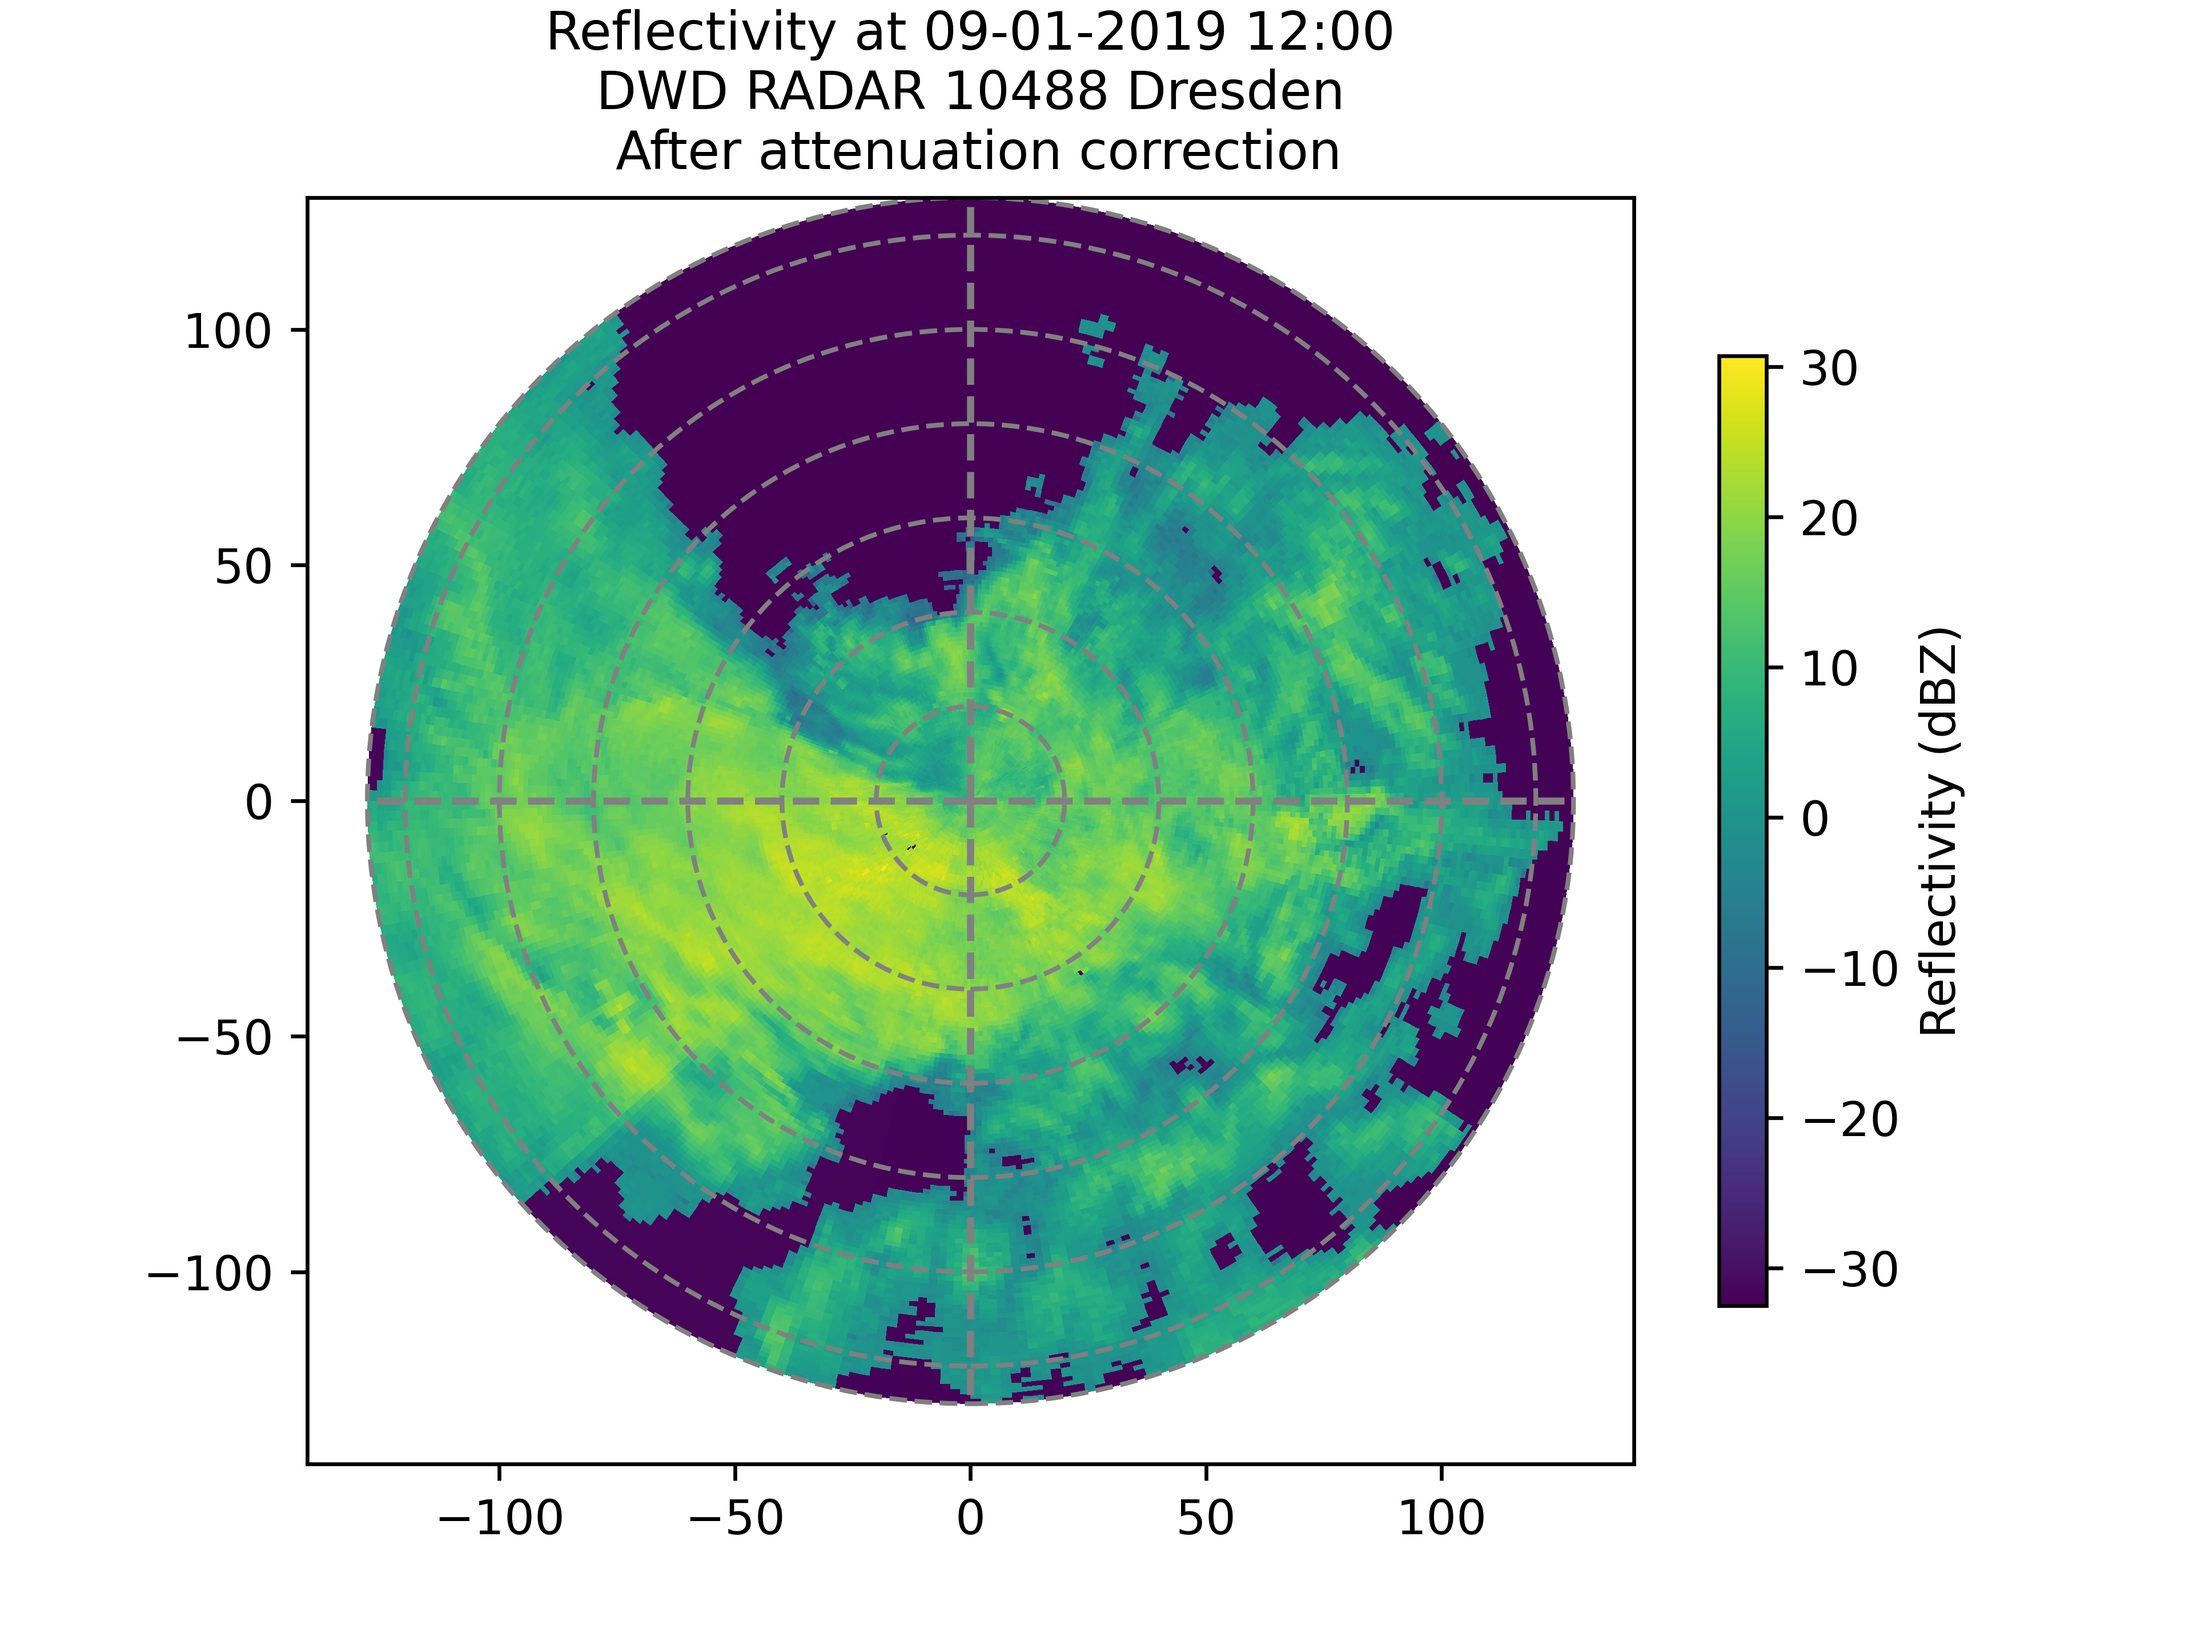
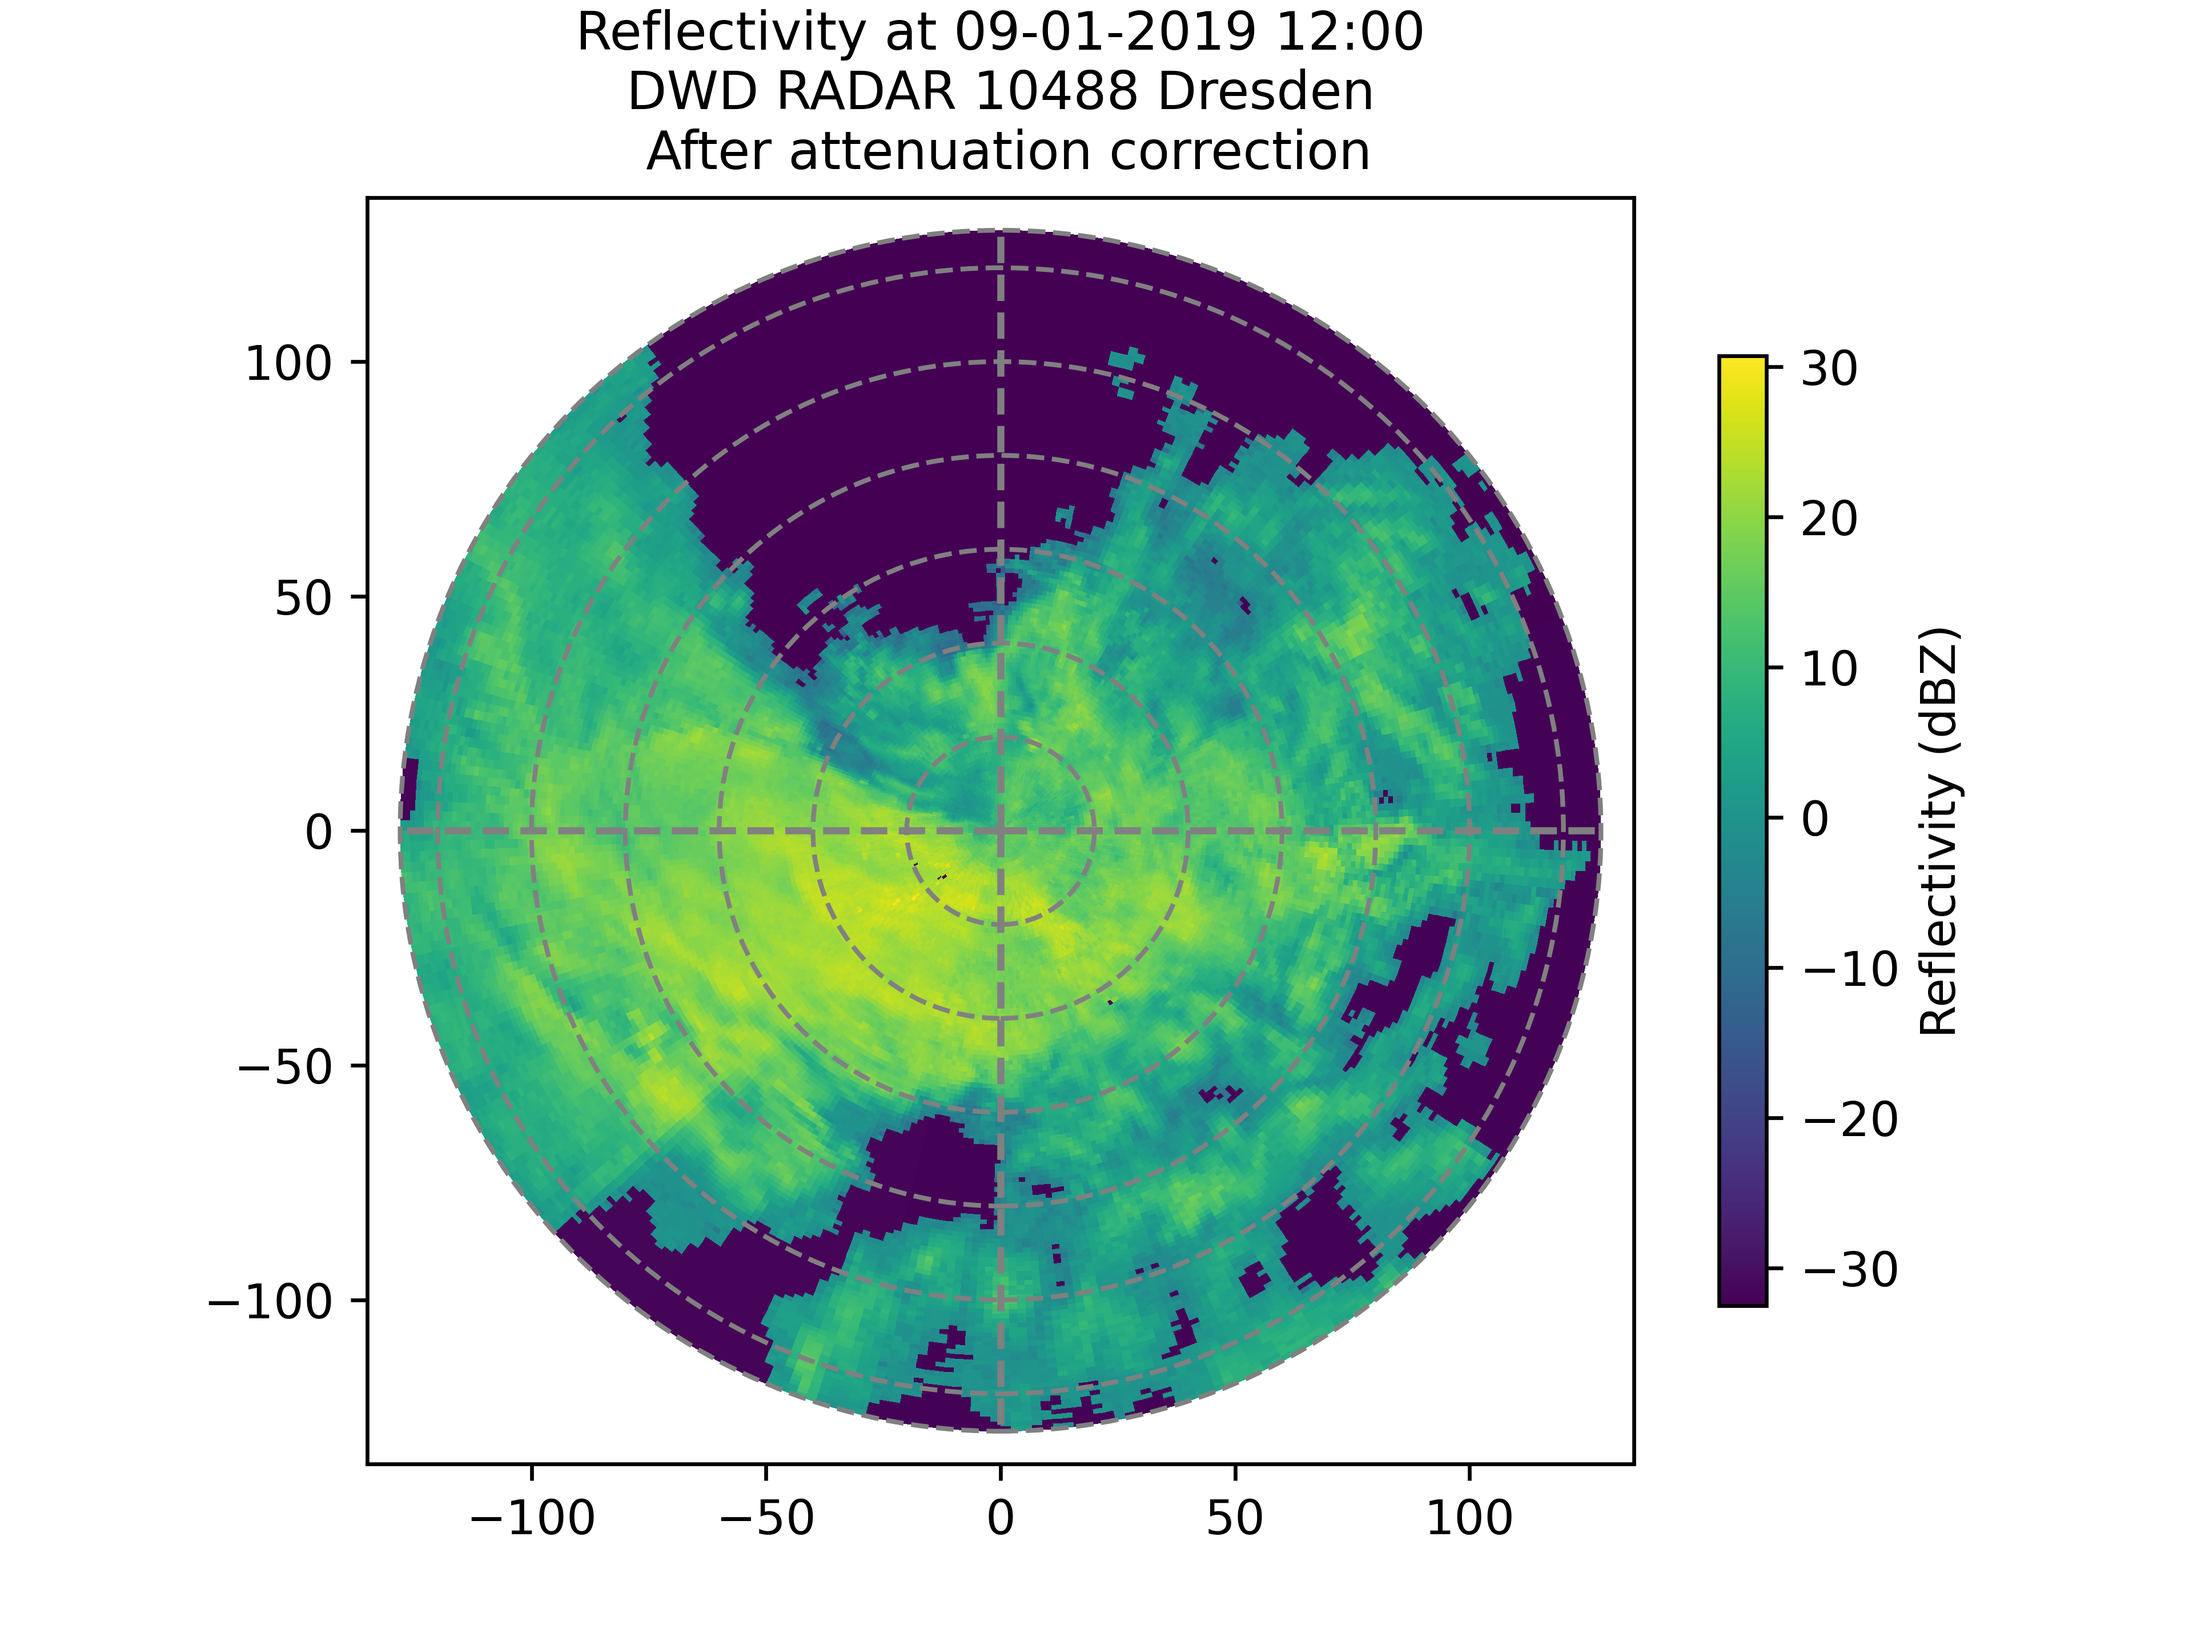
Center radar plots.

diff --git a/code/func.py b/code/func.py
@@ -4,13 +4,16 @@ import wradlib.clutter as clutter
 
 from colorbar import cm
 
+
 def plot_rawdata(data, dt, filename):
     """Plot reflectivity."""
-    pl.figure(figsize=(10, 8))
+    pl.figure(figsize=(10,8))
     ax, im = wrl.vis.plot_ppi(data, cmap="viridis") # proj="cg"
     ax = wrl.vis.plot_ppi_crosshair((0,0,0), ranges=[20,40,60,80,100,120,128])
     cbar = pl.colorbar(im, shrink=0.75)
     cbar.set_label("Reflectivity (dBZ)")
+    pl.xlim([-135, 135])
+    pl.ylim([-135, 135])
     pl.title(f'Reflectivity at {dt.strftime("%d-%m-%Y %H:%M")}\nDWD RADAR 10488 Dresden\nraw data', fontsize=11)
     pl.savefig(f"images/radar_dx _drs_{filename[15:25]}_raw.png", dpi=600)
     return 0
@@ -21,14 +24,19 @@ def clutter_gabella(data, dt, filename):
     pl.figure(figsize=(10,8))
     ax, pm = wrl.vis.plot_ppi(clmap)
     ax = wrl.vis.plot_ppi_crosshair((0,0,0), ranges=[20,40,60,80,100,120,128])
+    pl.xlim([-135, 135])
+    pl.ylim([-135, 135])
     ax.set_title(f'Detected clutter at {dt.strftime("%d-%m-%Y %H:%M")}\nDWD RADAR 10488 Dresden\nAfter clutter correction', fontsize=11)
     pl.savefig(f"images/radar_dx _drs_{filename[15:25]}_cluttermap.png")
+    
     data_no_clutter = wrl.ipol.interpolate_polar(data, clmap)
     pl.figure(figsize=(10,8))
     ax, pm = wrl.vis.plot_ppi(data_no_clutter)
     ax = wrl.vis.plot_ppi_crosshair((0,0,0), ranges=[20,40,60,80,100,120,128])
     cbar = pl.colorbar(pm, shrink=0.75)
     cbar.set_label("Reflectivity (dBZ)")
+    pl.xlim([-135, 135])
+    pl.ylim([-135, 135])
     pl.title(f'Reflectivity at {dt.strftime("%d-%m-%Y %H:%M")}\nDWD RADAR 10488 Dresden\nAfter clutter correction', fontsize=11)
     pl.savefig(f"images/radar_dx _drs_{filename[15:25]}_noclutter.png", dpi=600)
     return clmap, data_no_clutter
@@ -45,6 +53,8 @@ def attenuation_corr(data_no_clutter, dt, filename):
     ax = wrl.vis.plot_ppi_crosshair((0,0,0), ranges=[20,40,60,80,100,120,128])
     cbar = pl.colorbar(pm, shrink=0.75)
     cbar.set_label("Reflectivity (dBZ)")
+    pl.xlim([-135, 135])
+    pl.ylim([-135, 135])
     pl.title(f'Reflectivity at {dt.strftime("%d-%m-%Y %H:%M")}\nDWD RADAR 10488 Dresden\n After attenuation correction', fontsize=11)
     pl.savefig(f"images/radar_dx _drs_{filename[15:25]}_attcorr.png", dpi=600)
 
@@ -66,6 +76,8 @@ def plot_raindepths(depths, dt, filename):
     ax = wrl.vis.plot_ppi_crosshair((0,0,0), ranges=[20,40,60,80,100,120,128])
     cbar = pl.colorbar(im, shrink=0.75)
     cbar.set_label("5 min - Rain depths (mm)")
+    pl.xlim([-135, 135])
+    pl.ylim([-135, 135])
     pl.title(f'5min - rain dephts at {dt.strftime("%d-%m-%Y %H:%M")}\nDWD RADAR 10488 Dresden\nAfter applying Z-R-relation', fontsize=11)
     pl.savefig(f"images/radar_dx _drs_{filename[15:25]}_raindepths.png", dpi=600)
     return 0

diff --git a/code/example_1901091200.py b/code/example_1901091200.py
@@ -11,11 +11,11 @@ from colorbar import cm
 
 
 # Configure filename and path.
-filename = 'raa00-dx_10488-1901091200-drs---bin'
+filename = 'raa00-dx_10488-1901091250-drs---bin'
 fpath = 'example_data/'
 
 # Configure radar location and elevation.
-radar_location = (13.769722, 51.125278, 263) # (lon, lat, alt) in decimal degree and meters.
+radar_location = (13.769722, 51.125278, 263)
 elevation = 0.8 # elevation in degree.
 
 # Read data.
